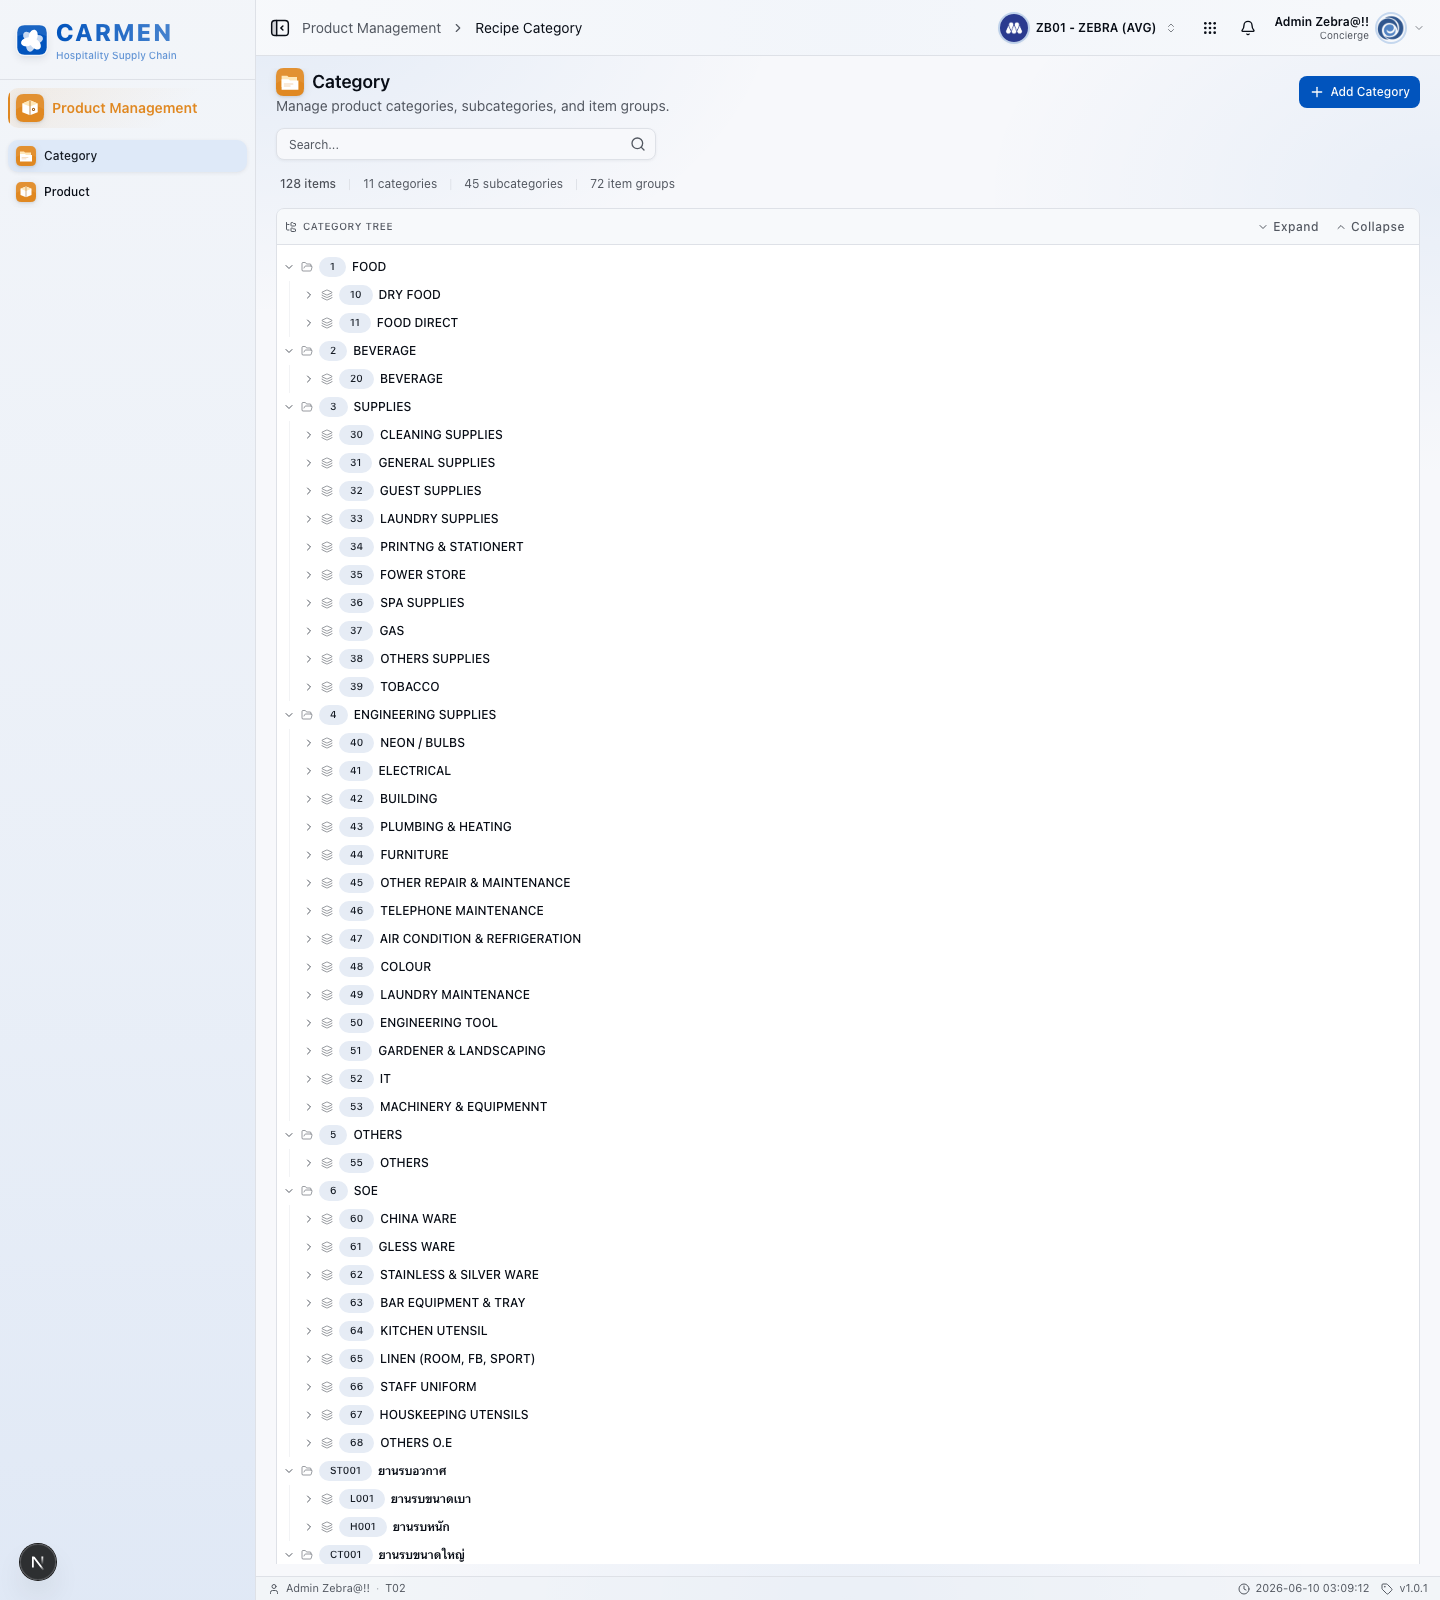
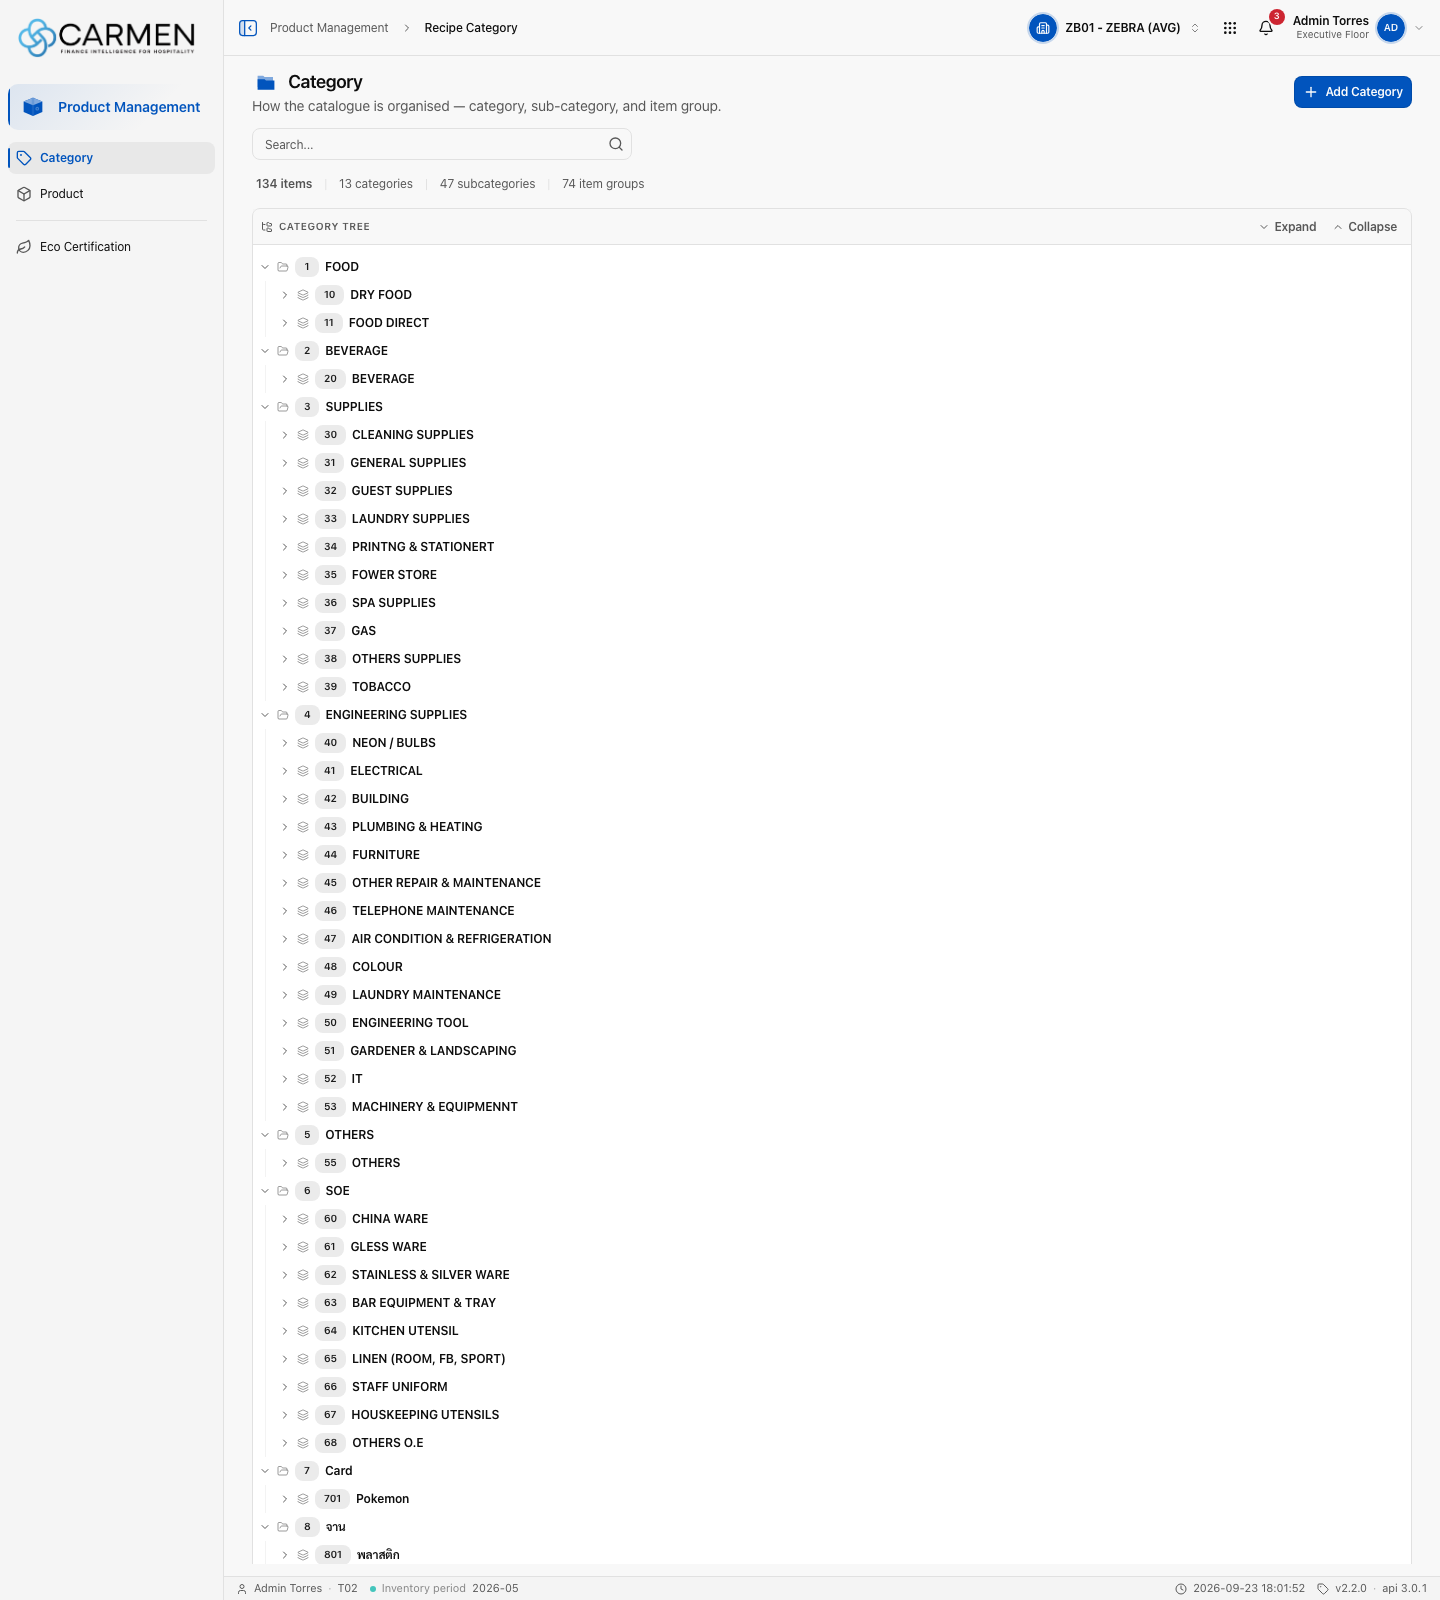
fix(screenshots): variant allow-list, TH-only pages, base-adjacent variants, --changed-list, hash-verified uploads; drop stale query-dataset image; add cluster-admin profile and refreshed product category

diff --git a/scripts/embed_screenshots.py b/scripts/embed_screenshots.py
@@ -7,9 +7,13 @@ Spec: docs/superpowers/specs/2026-09-23-screenshots-all-books-design.md §2, §5
   assets/screenshots/<book>/<module>/<slug>.png           -> <loc>/<book>/<module>/<slug>.md
   assets/screenshots/<book>/<module>/<slug>-<variant>.png -> same page as <slug> (exact page name wins)
 
+Only the variants in VARIANTS are embedded; any other suffix (catalog leftovers
+such as "index-dialog-add", role shots "--Role") is reported and skipped, so a
+renamed page can never pull an unrelated image in by prefix.
+
 Idempotent: a URL already present in a page is never inserted again.
 """
-import argparse, datetime, re, sys
+import argparse, datetime, re, sys, tempfile
 from pathlib import Path
 
 ROOT = Path(__file__).resolve().parent.parent
@@ -21,12 +25,16 @@ SKIP_PAGES = {
     "inventory/costing", "inventory/costing/calculation-methods",
     "inventory/general-ledger/gl-posting", "inventory/system-config/doc-version",
     "platform/users/lifecycle", "platform/report-templates/xml-spec",
+    # No screen in Carmen Inventory: the SQL Workbench UI moved to the Platform SPA on 2026-07-09.
+    "inventory/system-config/query-dataset",
 }
-CHANGED_LIST = Path("/private/tmp/claude-501/embed-changed.txt")
+# Suffixes that mark a second image of the same page: detail/edit screen, create form.
+VARIANTS = {"detail", "form"}
+DEFAULT_CHANGED_LIST = Path(tempfile.gettempdir()) / "carmen-wiki-embed-changed.txt"
 
 
 def page_exists(rel: str) -> bool:
-    return (ROOT / "en" / f"{rel}.md").is_file()
+    return any((ROOT / loc / f"{rel}.md").is_file() for loc in LOCALES)
 
 
 def resolve(book: str, module: str, stem: str) -> tuple[str, str | None] | None:
@@ -34,16 +42,16 @@ def resolve(book: str, module: str, stem: str) -> tuple[str, str | None] | None:
     if "--" in stem:  # role-suffixed catalog shot, never embedded
         return None
     if stem == "index" or stem.startswith("index-"):
-        rel = f"{book}/{module}"
-        return (rel, stem[len("index-"):] or None) if page_exists(rel) else None
+        rel, variant = f"{book}/{module}", stem[len("index-"):] or None
+        ok = page_exists(rel) and (variant is None or variant in VARIANTS)
+        return (rel, variant) if ok else None
     exact = f"{book}/{module}/{stem}"
     if page_exists(exact):
         return (exact, None)
-    parts = stem.split("-")
-    for i in range(len(parts) - 1, 0, -1):  # longest prefix first
-        rel = f"{book}/{module}/{'-'.join(parts[:i])}"
-        if page_exists(rel):
-            return (rel, "-".join(parts[i:]))
+    base, _, variant = stem.rpartition("-")
+    rel = f"{book}/{module}/{base}"
+    if base and variant in VARIANTS and page_exists(rel):
+        return (rel, variant)
     return None
 
 
@@ -52,8 +60,19 @@ def title_of(text: str) -> str:
     return m.group(1).strip().strip("'\"") if m else ""
 
 
-def insert_at(lines: list[str]) -> int:
-    """Index before which the image line goes (spec §5.1 placement)."""
+def insert_at(lines: list[str], base_url: str | None = None) -> int:
+    """Index before which the image line goes (spec §5.1 placement).
+
+    A variant goes directly after its base image when the page already has it,
+    wherever that image sits, so the pair is never split or reversed.
+    """
+    if base_url:
+        for i, line in enumerate(lines):
+            if line.startswith("![") and f"]({base_url})" in line:
+                j = i + 1
+                while j < len(lines) and (lines[j].strip() == "" or lines[j].startswith("![")):
+                    j += 1
+                return j
     fm_end = lines.index("---", 1)
     body = range(fm_end + 1, len(lines))
     glance = next((i for i in body if lines[i].startswith("> **At a Glance**")), None)
@@ -78,7 +97,8 @@ def embed(page: Path, url: str, variant: str | None, now: str) -> bool:
         return False
     alt = title_of(text) + (f" {variant.replace('-', ' ')}" if variant else "") + " screen"
     lines = text.split("\n")
-    at = insert_at(lines)
+    base_url = url.replace(f"-{variant}.png", ".png") if variant else None
+    at = insert_at(lines, base_url)
     lines[at:at] = [f"![{alt}]({url})", ""]
     out = re.sub(r"^date:.*$", f"date: {now}", "\n".join(lines), count=1, flags=re.M)
     page.write_text(out, encoding="utf-8")
@@ -89,6 +109,8 @@ def main(argv: list[str]) -> int:
     ap = argparse.ArgumentParser()
     ap.add_argument("--dry-run", action="store_true")
     ap.add_argument("--book", choices=sorted(URL_PREFIX))
+    ap.add_argument("--changed-list", type=Path, default=DEFAULT_CHANGED_LIST,
+                    help=f"file receiving the changed page paths (default: {DEFAULT_CHANGED_LIST})")
     args = ap.parse_args(argv)
     now = datetime.datetime.now(datetime.timezone.utc).strftime("%Y-%m-%dT%H:%M:%S.000Z")
     inserts = skips = 0
@@ -103,6 +125,8 @@ def main(argv: list[str]) -> int:
                 skips += 1
                 continue
             rel, variant = hit
+            if variant:
+                print(f"~ {png.relative_to(ROOT)}  variant '{variant}' of {rel}")
             if rel in SKIP_PAGES or SKIP_NAME.search(rel.rsplit("/", 1)[-1]):
                 print(f"- {png.relative_to(ROOT)}  out-of-scope page {rel}")
                 skips += 1
@@ -120,8 +144,9 @@ def main(argv: list[str]) -> int:
                 if not args.dry_run and embed(page, url, variant, now):
                     changed.add(f"{loc}/{rel}.md")
     if not args.dry_run:
-        CHANGED_LIST.parent.mkdir(parents=True, exist_ok=True)
-        CHANGED_LIST.write_text("".join(f"{p}\n" for p in sorted(changed)))
+        args.changed_list.parent.mkdir(parents=True, exist_ok=True)
+        args.changed_list.write_text("".join(f"{p}\n" for p in sorted(changed)))
+        print(f"changed pages listed in {args.changed_list}")
     verb = "planned" if args.dry_run else "inserted"
     print(f"---- {verb} {inserts}, skipped images {skips}, pages changed {len(changed)} ----")
     return 0

diff --git a/scripts/upload_assets.py b/scripts/upload_assets.py
@@ -8,7 +8,7 @@ Folder layout (spec 2026-09-23 §2.1):
   platform  -> screenshots/platform/<module>/   URL /screenshots/platform/<module>/<file>
 Reads WIKI_API_URL / WIKI_API_TOKEN from scripts/.env.
 """
-import json, os, subprocess, sys, urllib.request
+import hashlib, json, os, subprocess, sys, urllib.request
 from pathlib import Path
 
 ROOT = Path(__file__).resolve().parent.parent
@@ -65,23 +65,38 @@ def folder_for(parts: list[str]) -> int:
     return fid
 
 
-def curl_code(args: list[str]) -> str:
-    return subprocess.run(["curl", "-sS", "-o", "/dev/null", "-w", "%{http_code}", *args],
-                          capture_output=True, text=True).stdout
+def post_upload(png: Path, folder_id: int) -> str:
+    """POST the file to /u; returns the HTTP status. The token goes through curl's
+    stdin config (-K -) so it never appears in the process list."""
+    config = f'header = "Authorization: Bearer {TOKEN}"\n'
+    return subprocess.run(
+        ["curl", "-sS", "-K", "-", "-o", "/dev/null", "-w", "%{http_code}", "-m", "60",
+         "-X", "POST", f"{BASE}/u",
+         "-F", f'mediaUpload={{"folderId":{folder_id}}};type=application/json',
+         "-F", f"mediaUpload=@{png};type=image/png"],
+        input=config, capture_output=True, text=True).stdout
+
+
+def served_sha256(url: str) -> tuple[int, str]:
+    """Status and SHA-256 of what the wiki serves now (cache-busted)."""
+    try:
+        with urllib.request.urlopen(f"{BASE}{url}?v={os.getpid()}", timeout=30) as r:
+            return r.status, hashlib.sha256(r.read()).hexdigest()
+    except urllib.error.HTTPError as e:
+        return e.code, ""
 
 
 def upload(png: Path) -> tuple[bool, str]:
     rel = png.resolve().relative_to(ROOT / "assets" / "screenshots")
     book, module = rel.parts[0], rel.parts[1]
     folder = ["screenshots", module] if book == "inventory" else ["screenshots", book, module]
-    fid = folder_for(folder)
     url = "/" + "/".join(folder + [png.name])
-    up = curl_code(["-m", "60", "-X", "POST", f"{BASE}/u",
-                    "-H", f"Authorization: Bearer {TOKEN}",
-                    "-F", f'mediaUpload={{"folderId":{fid}}};type=application/json',
-                    "-F", f"mediaUpload=@{png};type=image/png"])
-    get = curl_code(["-m", "20", f"{BASE}{url}"])
-    return (up == "200" and get == "200", f"{url} (upload {up}, get {get})")
+    up = post_upload(png, folder_for(folder))
+    status, served = served_sha256(url)
+    # A 200 alone also matches a stale asset Wiki.js kept instead of replacing.
+    same = served == hashlib.sha256(png.read_bytes()).hexdigest()
+    ok = up == "200" and status == 200 and same
+    return ok, f"{url} (upload {up}, get {status}, {'content matches' if same else 'CONTENT DIFFERS'})"
 
 
 def main(argv: list[str]) -> int:
@@ -91,7 +106,11 @@ def main(argv: list[str]) -> int:
         if not p.is_file():
             print(f"SKIP (missing) {arg}")
             continue
-        good, msg = upload(p)
+        try:
+            good, msg = upload(p)
+        except (ValueError, IndexError, RuntimeError, OSError) as e:
+            # One bad path (e.g. outside assets/screenshots/<book>/<module>/) must not abort the batch.
+            good, msg = False, f"{arg} ({type(e).__name__}: {e})"
         print(("OK   " if good else "FAIL ") + msg)
         ok, fail = ok + good, fail + (not good)
     print(f"---- uploaded {ok}, failed {fail} ----")

diff --git a/th/platform/cluster-admin/ui-screens.md b/th/platform/cluster-admin/ui-screens.md
@@ -2,7 +2,7 @@
 title: ผู้ดูแลคลัสเตอร์ — หน้าจอ UI (UI Screens)
 description: ClusterAdminEntry, ClusterProfile, BusinessUnitList/BusinessUnitForm, ClusterUsers และ ClusterAdminLicenses ที่อ่านอย่างเดียว บวกหน้าจอ Profile ที่ใช้ร่วมกัน — ทุกหน้าจำกัดขอบเขตอยู่ที่ :clusterId เดียว และเทียบกับคู่ของมันฝั่ง platform
 published: true
-date: 2026-09-23T10:06:26.000Z
+date: 2026-09-23T11:05:32.000Z
 tags: book/platform, cluster-admin, ui
 editor: markdown
 dateCreated: '2026-09-05T18:14:07.000Z'
@@ -14,6 +14,8 @@ dateCreated: '2026-09-05T18:14:07.000Z'
 > **หน้าจอ:** `ClusterAdminEntry` (`/cluster-admin`) &nbsp;·&nbsp; `ClusterProfile` (`/cluster-admin/:clusterId/cluster`) &nbsp;·&nbsp; `BusinessUnitList`/`BusinessUnitForm` (`/cluster-admin/:clusterId/business-units[/:buId/edit]`) &nbsp;·&nbsp; `ClusterUsers` (`/cluster-admin/:clusterId/users`) &nbsp;·&nbsp; `ClusterAdminLicenses` (`/cluster-admin/:clusterId/licenses` อ่านอย่างเดียวทั้งหมด) &nbsp;·&nbsp; `Profile` ที่ใช้ร่วมกัน (`/cluster-admin/:clusterId/profile`) &nbsp;·&nbsp; **Gate บนทุกหน้าจอต่อคลัสเตอร์:** ไม่มี RBAC permission key — กั้นด้วยสมาชิกภาพของคลัสเตอร์ผ่าน `isClusterAdminOf` แทน ตรวจก่อน feature flag เสมอ (ดู [Permissions](/th/platform/cluster-admin/permissions)) &nbsp;·&nbsp; **การเขียนในหน้าจอกั้นด้วยการเข้าถึง route ได้เท่านั้น** — `canEdit` ของ `ClusterProfile` และ `BusinessUnitForm` คำนวณจากการเข้าถึงได้ล้วน ๆ ไม่มีการตรวจ permission หรือ role ใด ๆ ใน component เลย &nbsp;·&nbsp; **ไม่มี e2e suite** — ทุกคำกล่าวอ้างด้านล่างมาจากการอ่าน `../carmen-platform` โดยตรง
 
 ![ผู้ดูแลคลัสเตอร์ — หน้าจอ UI (UI Screens) screen](/screenshots/platform/cluster-admin/ui-screens.png)
+
+![ผู้ดูแลคลัสเตอร์ — หน้าจอ UI (UI Screens) form screen](/screenshots/platform/cluster-admin/ui-screens-form.png)
 
 ## 1. ภาพรวม
 

diff --git a/en/platform/cluster-admin/ui-screens.md b/en/platform/cluster-admin/ui-screens.md
@@ -2,7 +2,7 @@
 title: Cluster Admin — UI Screens
 description: ClusterAdminEntry, ClusterProfile, BusinessUnitList/BusinessUnitForm, ClusterUsers and the read-only ClusterAdminLicenses, plus the shared Profile screen — every one scoped to a single :clusterId and contrasted with its platform-side twin.
 published: true
-date: 2026-09-23T10:06:26.000Z
+date: 2026-09-23T11:05:32.000Z
 tags: book/platform, cluster-admin, ui
 editor: markdown
 dateCreated: '2026-09-05T18:14:07.000Z'
@@ -14,6 +14,8 @@ dateCreated: '2026-09-05T18:14:07.000Z'
 > **Screens:** `ClusterAdminEntry` (`/cluster-admin`) &nbsp;·&nbsp; `ClusterProfile` (`/cluster-admin/:clusterId/cluster`) &nbsp;·&nbsp; `BusinessUnitList`/`BusinessUnitForm` (`/cluster-admin/:clusterId/business-units[/:buId/edit]`) &nbsp;·&nbsp; `ClusterUsers` (`/cluster-admin/:clusterId/users`) &nbsp;·&nbsp; `ClusterAdminLicenses` (`/cluster-admin/:clusterId/licenses`, fully read-only) &nbsp;·&nbsp; shared `Profile` (`/cluster-admin/:clusterId/profile`) &nbsp;·&nbsp; **Gate on every per-cluster screen:** no RBAC permission key — gated instead by cluster membership via `isClusterAdminOf`, checked before the feature flag (see [Permissions](/en/platform/cluster-admin/permissions)) &nbsp;·&nbsp; **In-page writes are gated only by having reached the route** — `ClusterProfile` and `BusinessUnitForm` compute `canEdit` from reachability alone, not from any permission or role check inside the component &nbsp;·&nbsp; **No e2e suite** — every claim below is sourced from `../carmen-platform` implementation directly
 
 ![Cluster Admin — UI Screens screen](/screenshots/platform/cluster-admin/ui-screens.png)
+
+![Cluster Admin — UI Screens form screen](/screenshots/platform/cluster-admin/ui-screens-form.png)
 
 ## 1. Overview
 

diff --git a/th/inventory/system-config/query-dataset.md b/th/inventory/system-config/query-dataset.md
@@ -2,7 +2,7 @@
 title: Query Dataset
 description: SQL Workbench — backend admin-SQL service ที่ UI คือ Platform SPA ทั้งห้า route gate ด้วยสิทธิ์ platform sql_workbench.read/manage; execute รัน SQL อะไรก็ได้ key system_admin.query_dataset ถูกลบเมื่อ 2026-09-21
 published: true
-date: 2026-09-23T10:06:26.000Z
+date: 2026-09-23T10:57:51.000Z
 tags: system-config, query, dataset, sql, carmen-software
 editor: markdown
 dateCreated: 2026-05-16T15:00:00.000Z
@@ -12,8 +12,6 @@ dateCreated: 2026-05-16T15:00:00.000Z
 
 > **At a Glance**
 > **เจ้าของ:** Gate ด้วย platform permission สองตัว — `sql_workbench.read` (เรียกดู) และ `sql_workbench.manage` (รัน / บันทึก / drop) ครบ **ทั้ง 5 route** ตั้งแต่ 2026-08-20 &nbsp;·&nbsp; **การจัดเก็บ:** PostgreSQL catalog (`pg_class`, `pg_proc`) ใน tenant schema — **ไม่มี `tb_query_dataset`** &nbsp;·&nbsp; **ไม่มีหน้าจอใน*ผลิตภัณฑ์นี้*** — console อยู่ที่หน้าจอ [SQL Workbench](/th/platform/sql-workbench) ของ Platform SPA ไม่มี route/component/hook ที่ตรงกันใน `carmen-inventory-frontend-react` &nbsp;·&nbsp; **`execute` ไม่ใช่ read-only** — รัน SQL อะไรก็ได้ รวมถึง DDL และ multi-statement
-
-![Query Dataset screen](/screenshots/system-config/query-dataset.png)
 
 ## สถานะการ implement (ตรวจสอบ 2026-07-16; ตรวจสอบ permission และ UI ใหม่ 2026-09-06 และ 2026-09-22)
 

diff --git a/en/inventory/system-config/query-dataset.md b/en/inventory/system-config/query-dataset.md
@@ -2,7 +2,7 @@
 title: Query Dataset
 description: SQL Workbench — backend admin-SQL service whose UI is the Platform SPA. All five routes gated by sql_workbench.read/manage platform permissions; execute runs any SQL. system_admin.query_dataset key removed 2026-09-21.
 published: true
-date: 2026-09-23T10:06:26.000Z
+date: 2026-09-23T10:57:51.000Z
 tags: system-config, query, dataset, sql, carmen-software
 editor: markdown
 dateCreated: 2026-05-16T15:00:00.000Z
@@ -12,8 +12,6 @@ dateCreated: 2026-05-16T15:00:00.000Z
 
 > **At a Glance**
 > **Owner:** Gated by two platform permissions — `sql_workbench.read` (browse) and `sql_workbench.manage` (run / save / drop), on **all five routes** since 2026-08-20 &nbsp;·&nbsp; **Storage:** PostgreSQL catalog (`pg_class`, `pg_proc`) in the tenant schema — **no `tb_query_dataset`** &nbsp;·&nbsp; **No screen in *this* product** — the console is the Platform SPA's [SQL Workbench](/en/platform/sql-workbench); no matching route/component/hook exists in `carmen-inventory-frontend-react` &nbsp;·&nbsp; **`execute` is NOT read-only** — it runs any SQL, including DDL and multiple statements.
-
-![Query Dataset screen](/screenshots/system-config/query-dataset.png)
 
 ## Implementation status (verified 2026-07-16; permissions and UI re-verified 2026-09-06 and 2026-09-22)
 
